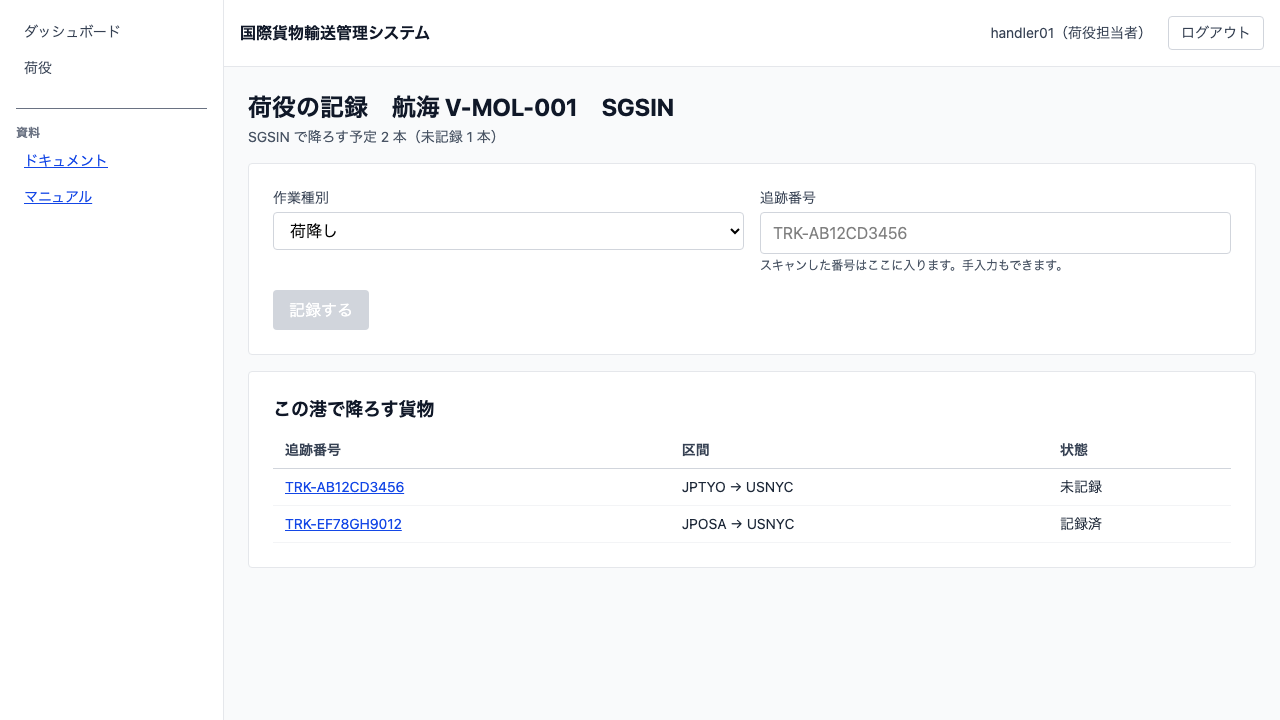
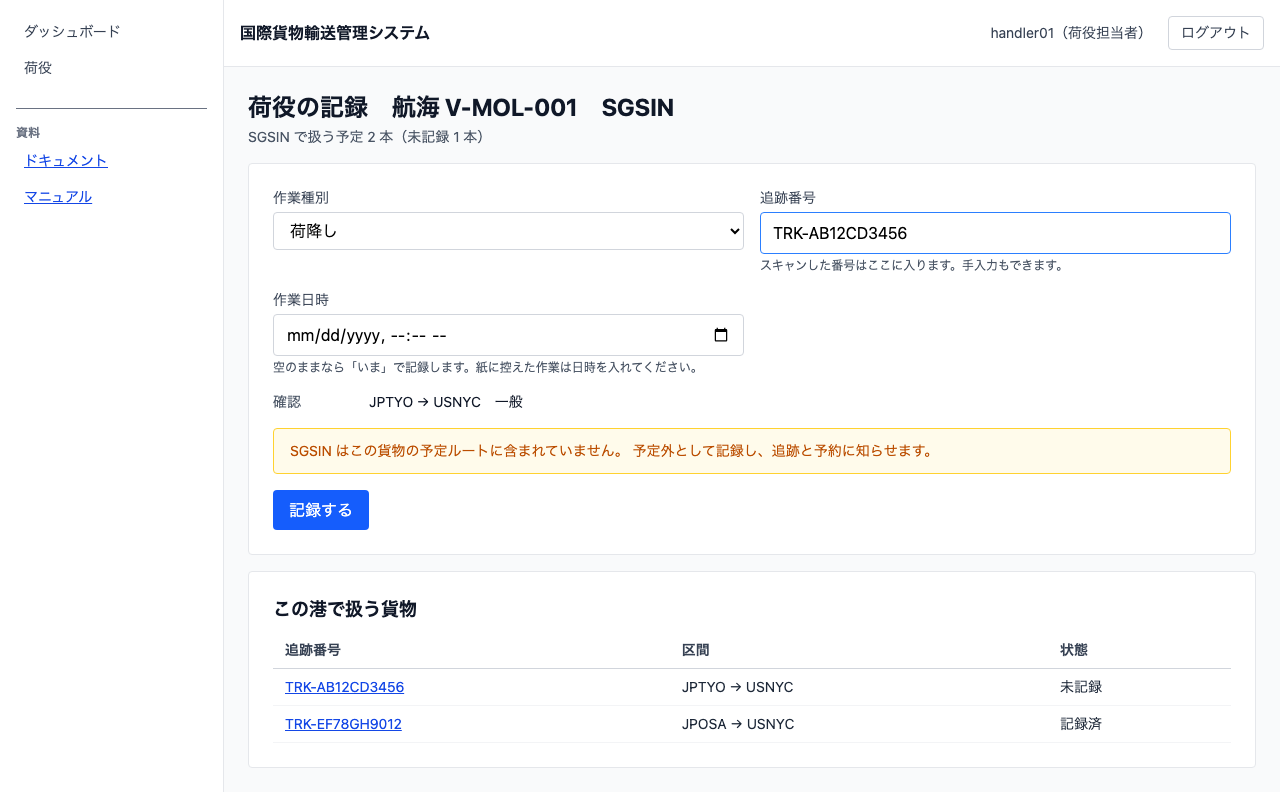
docs(manual): 荷役の章のキャプチャを撮り直す（クローズ ステップ 6.5）
**キャプチャが本文の説明する要素を写していなかった。** S50 は追跡番号を
入れていない初期状態で、本文が説明する「確認」欄と予定外の先出し警告が
どちらも写っていなかった。S51 は 2 行とも「記録済」で、「取り消した記録も
出ます」「予定外の印が付きます」が写っていなかった（IT9 レビュー writer 中 6・7）。

**撮り直したら画面の欠陥が 2 つ見つかった。** 表の見出しが「この港で降ろす
貨物」のまま（積む港からも入れるようにしたのに）で、貨物種別が `GENERAL` と
列挙名のまま出ていた——DoD の「内部の列挙名を利用者に見せていない」に反する。
既にある `cargoTypeLabel` を使う。

一覧と未記録本数の説明を本文に足した（キャプチャの下半分を占め、S51 への
導線でもあるのに言及が無かった）。

Claude-Session: https://claude.ai/code/session_01FGCYhe4X1WuCr3VwuFZq5b

diff --git a/apps/cargo-tracker/frontend/e2e/manual-capture.spec.ts b/apps/cargo-tracker/frontend/e2e/manual-capture.spec.ts
@@ -961,9 +961,30 @@ test.describe('マニュアルの画面キャプチャ', () => {
         }),
       }),
     );
+    // **本文が説明する要素を写す。** 「確認」欄（区間・貨物種別）と予定外の
+    // 先出し警告は、追跡番号を入れないと出ない。初期状態のまま撮ると、
+    // 文章と画像が別々に正しくなる（IT9 レビュー writer 中 6）。
+    await page.route('**/api/v1/handling/cargos/*', (route) =>
+      route.fulfill({
+        status: 200,
+        contentType: 'application/json',
+        body: JSON.stringify({
+          trackingNumber: 'TRK-AB12CD3456',
+          bookingId: 'b-1',
+          originUnLocode: 'JPTYO',
+          destinationUnLocode: 'USNYC',
+          cargoType: 'GENERAL',
+          // 予定は東京 → ニューヨーク。シンガポールで降ろすのは予定外。
+          legs: [{ voyageNumber: 'V-MOL-001', loadUnLocode: 'JPTYO', unloadUnLocode: 'USNYC' }],
+        }),
+      }),
+    );
     await signInAsHandler(page);
     await page.goto('/handling/voyages/V-MOL-001?unLocode=SGSIN');
     await expect(page.getByRole('heading', { name: /荷役の記録/ })).toBeVisible();
+    await page.getByLabel('追跡番号').fill('TRK-AB12CD3456');
+    await expect(page.getByText('確認')).toBeVisible();
+    await expect(page.getByText(/予定ルートに含まれていません/)).toBeVisible();
     await page.screenshot({ path: `${OUT}/13-S50-handling-record.png`, fullPage: true });
   });
 
@@ -998,6 +1019,33 @@ test.describe('マニュアルの画面キャプチャ', () => {
               completedAt: '2026-09-21T00:00:00Z',
               voided: false,
               voidReason: null,
+            },
+            // **本文が「取り消した記録も出ます」「予定外の印が付きます」と
+            // 書いている。** 記録済の行だけを写すと、文章と画像が別々に
+            // 正しくなる（IT9 レビュー writer 中 7）。
+            {
+              activityId: 'act-3',
+              handlingType: 'UNLOAD',
+              handlingTypeLabel: '荷降し',
+              unLocode: 'SGSIN',
+              voyageNumber: 'V-MOL-001',
+              offRoute: true,
+              operator: 'handler02',
+              completedAt: '2026-09-26T02:00:00Z',
+              voided: false,
+              voidReason: null,
+            },
+            {
+              activityId: 'act-4',
+              handlingType: 'UNLOAD',
+              handlingTypeLabel: '荷降し',
+              unLocode: 'DEHAM',
+              voyageNumber: 'V-MOL-001',
+              offRoute: false,
+              operator: 'handler02',
+              completedAt: '2026-09-27T02:00:00Z',
+              voided: true,
+              voidReason: '別の貨物と取り違えました',
             },
           ],
         }),

diff --git a/apps/cargo-tracker/frontend/src/features/handling/HandlingRecordPage.tsx b/apps/cargo-tracker/frontend/src/features/handling/HandlingRecordPage.tsx
@@ -16,6 +16,7 @@ import {
   TD,
   TH,
 } from '@/shared/ui/styles';
+import { cargoTypeLabel } from '@/features/bookings/api';
 import { businessLocalToInstant } from '@/shared/api/businessDate';
 import { ApiError } from '@/shared/api/client';
 import {
@@ -176,7 +177,8 @@ export function HandlingRecordPage() {
           <dl className="mt-4 grid grid-cols-[6rem_1fr] gap-y-1 text-sm">
             <dt className="text-gray-600">確認</dt>
             <dd className="text-gray-900">
-              {cargo.originUnLocode} → {cargo.destinationUnLocode}{'\u3000'}{cargo.cargoType}
+              {cargo.originUnLocode} → {cargo.destinationUnLocode}{'\u3000'}
+              {cargoTypeLabel(cargo.cargoType)}
             </dd>
           </dl>
         )}
@@ -214,10 +216,10 @@ export function HandlingRecordPage() {
       </section>
 
       <section className={`${CARD} mt-4 overflow-x-auto`}>
-        <h2 className={SECTION_TITLE}>この港で降ろす貨物</h2>
+        <h2 className={SECTION_TITLE}>この港で扱う貨物</h2>
         {items.length === 0 ? (
           <p className="mt-2 text-sm text-gray-600">
-            この航海がこの港で降ろす貨物はありません。航海番号と港をお確かめください。
+            この航海がこの港で扱う貨物はありません。航海番号と港をお確かめください。
           </p>
         ) : (
           <table className={`${TABLE} mt-2`}>

diff --git a/docs/manual/13-荷役作業を記録する.md b/docs/manual/13-荷役作業を記録する.md
@@ -30,6 +30,8 @@ generated: { by: claude-code/claude-opus-5, at: 2026-09-07T14:40:47Z }
 
 **種別と場所は残ります。** 同じ港で続けて記録するので、毎回選び直さずに済みます。
 
+**画面の下に「この港で扱う貨物」が並びます。** 記録するとその行が「記録済」に変わるので、**残り何本か**が分かります。追跡番号を押すと、その貨物の荷役履歴が開きます。
+
 **送信を待ちません。** 押すとすぐ次に移れます。反映は追いかけて行われます。
 
 **同じ番号を二度送っても二重になりません。** 電波が届かず送り直したときのための仕掛けが入っています。
